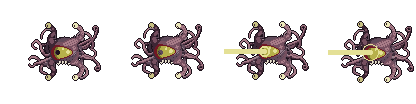
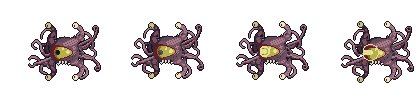
Beholden Watcher: beam removed from its laser frames; the laser shoots from the ring round its eye
Claude-Session: https://claude.ai/code/session_01SBD8k6fNuiYxY9JLG9nkkr

Changed region(s): [[0.7812, 0.4615, 0.875, 0.5481], [0.5312, 0.4615, 0.625, 0.5192]]

diff --git a/src/core/field.ts b/src/core/field.ts
@@ -107,6 +107,11 @@ const POTION_WORD: Record<GearStat, string> = {
   knockback: 'HEAVE!', flurry: 'FLURRY!',
 };
 /**
+ * Where the Beholden Watcher's eye beam starts, from its middle, in its radii: the centre of the ring round its eye in
+ * its beam frames (6 art pixels ahead of the art's centre, 1 above, at its drawn scale of 3.3 radii across 63 pixels).
+ */
+export const WATCHER_EYE = { x: (6 * 3.3) / 63, y: (-1 * 3.3) / 63 };
+/**
  * Each Guardian move's numbers: seconds between uses (`cd`) and before the first (`first`); how near a Hunter must be
  * to start it (`reach`); its wind-up before it lands (`windup`); and its size (a cone's reach, a circle's radius, a
  * beam's width) and a cone's spread (`arc`, radians).
@@ -1788,11 +1793,15 @@ export class Field {
         break;
       }
       case 'beam': {
-        // A charged eye beam along a line through the nearest Hunter, telegraphed while it charges.
+        // A charged eye beam along a line through the nearest Hunter, telegraphed while it charges. It shoots from the
+        // ring that flares round its eye (WATCHER_EYE), on whichever side it faces (toward your Hunter, as it's drawn).
         if (beat(0)) {
-          gm.a = Math.atan2(nearest.y - e.y, nearest.x - e.x);
+          const face = -e.x > 0 ? 1 : -1;
+          const ox = e.x + face * WATCHER_EYE.x * e.r;
+          const oy = e.y + WATCHER_EYE.y * e.r;
+          gm.a = Math.atan2(nearest.y - oy, nearest.x - ox);
           this.animate(e, 'attack2');
-          this.hazard({ kind: 'line', x: e.x, y: e.y, a: gm.a, len: 1200, w: def.size!, fx: 'beam' }, def.windup!);
+          this.hazard({ kind: 'line', x: ox, y: oy, a: gm.a, len: 1200, w: def.size!, fx: 'beam' }, def.windup!);
         }
         done(def.windup! + 0.4);
         break;
